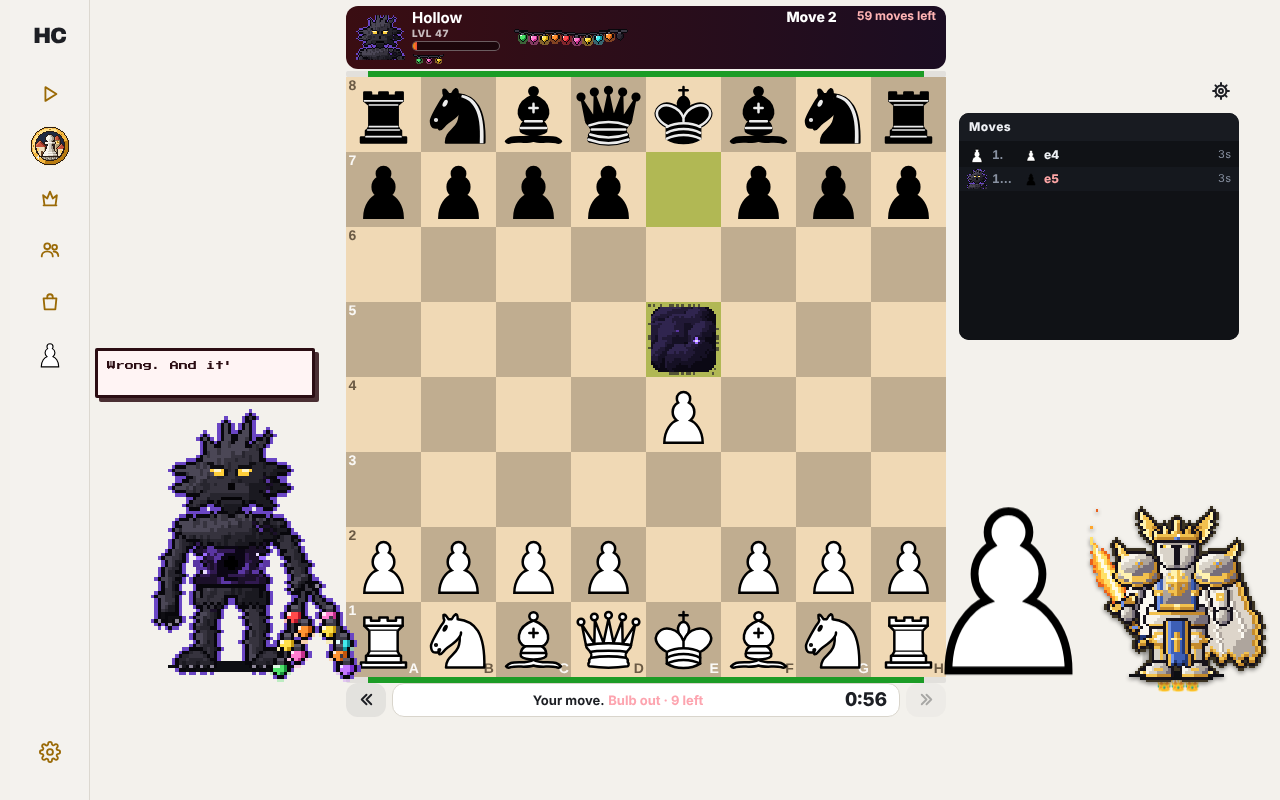
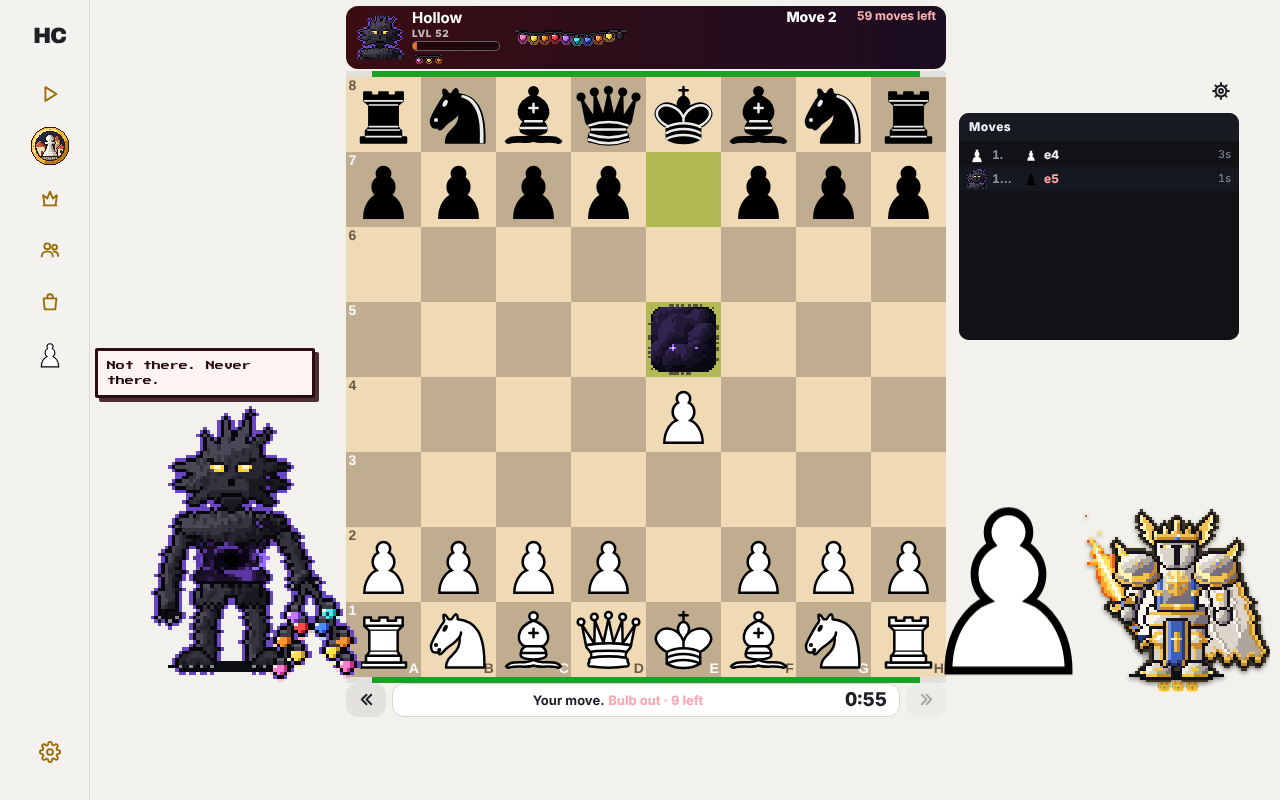
Hollow's taunts: check every one shows whole in his bubble (390 and 1440 wide); taunt stills taken once typed out
Claude-Session: https://claude.ai/code/session_01EKH5j59nMnRVnekEcuZbim

diff --git a/e2e/hollow.spec.ts b/e2e/hollow.spec.ts
@@ -64,6 +64,26 @@ const soundsHeard = (p: Page) => p.evaluate(() => ((window as any).__soundLog ??
 
 /** His line in his speech bubble now (its whole text), or null. */
 const bubbleLine = (p: Page) => p.evaluate(() => document.querySelector(".bc-bubble")?.getAttribute("aria-label") ?? null).catch(() => null);
+/**
+ * His bubble's line clipped, or "" when it shows whole: its text's scroll size within its box, and every box of the text inside
+ * the bubble (its rows never cut by the box's edge).
+ */
+const bubbleClipped = (p: Page) =>
+  p.evaluate(() => {
+    const el = document.querySelector<HTMLElement>(".bc-bubble");
+    if (!el) return "no bubble";
+    const label = el.getAttribute("aria-label") ?? "";
+    if (el.scrollWidth > el.clientWidth + 1 || el.scrollHeight > el.clientHeight + 1) return `${label}: scroll ${el.scrollWidth}x${el.scrollHeight} in ${el.clientWidth}x${el.clientHeight}`;
+    const box = el.getBoundingClientRect();
+    const rg = document.createRange();
+    rg.selectNodeContents(el);
+    const out = [...rg.getClientRects()].filter((q) => q.width > 0.5 && q.height > 0.5).find((q) => q.left < box.left - 0.5 || q.right > box.right + 0.5 || q.top < box.top - 0.5 || q.bottom > box.bottom + 0.5);
+    if (out) return `${label}: a row at ${Math.round(out.left)},${Math.round(out.top)}-${Math.round(out.right)},${Math.round(out.bottom)} past the box ${Math.round(box.left)},${Math.round(box.top)}-${Math.round(box.right)},${Math.round(box.bottom)}`;
+    if (box.left < 0 || box.top < 0 || box.right > innerWidth + 0.5 || box.bottom > innerHeight + 0.5) return `${label}: the box off screen`;
+    return "";
+  });
+/** Every taunt and the dark's move line (characters/hollow.ts HOLLOW_LINES.misplay; components/Hollow.tsx HOLLOW_BULB_LINES). */
+const TAUNT_LINES = ["Nice try.", "What, can't play in the dark?", "Something was there. Wasn't it?", "You reached for nothing.", "Feeling around, are we?", "The dark remembers. You don't.", "Not there. Never there.", "Wrong. And it's getting darker."];
 /** His taunts on a misplay (characters/hollow.ts HOLLOW_LINES.misplay). */
 const TAUNTS = /^(Nice try\.|What, can't play in the dark\?|Something was there\. Wasn't it\?|You reached for nothing\.|Feeling around, are we\?|The dark remembers\. You don't\.|Not there\. Never there\.|Wrong\. And it's getting darker\.)$/;
 /** HOLLOW_STILLS=<folder>: the stills for docs/hollow-bulbs/, written there. */
@@ -137,6 +157,9 @@ test("Hollow's dark, Boss alone: his first cover, a dark square selected, his te
   await expect(page.locator(".life-strip")).toHaveAttribute("data-lit", "9");
   await expect.poll(() => soundsHeard(page), { timeout: 5000 }).toContain("hollowFizz");
   await expect.poll(() => bubbleLine(page), { timeout: 15_000 }).toMatch(TAUNTS);
+  // (Typed out in full: the still shows the whole line.)
+  await expect.poll(() => page.evaluate(() => document.querySelector(".bc-bubble .speech-rest")?.textContent ?? ""), { timeout: 8000 }).toBe("");
+  await expect.poll(() => bubbleClipped(page), { timeout: 3000 }).toBe("");
   if (STILLS) await still(page, "bulbs-taunt");
   expect(await phase(page)).toBe("play");
   // A legal move out of the dark. (For the test, the dark falls on your knight: covers land on his pieces or yours at
@@ -185,6 +208,25 @@ test("Hollow's dark, Boss alone: his first cover, a dark square selected, his te
   expect(await page.evaluate(() => (window as any).match.moves.at(-1).move)).toBe(forced.move);
   expect(await soundsHeard(page)).toContain("hollowForced");
   expect(errors).toEqual([]);
+});
+
+test("Hollow's taunts and \"The dark moves for you.\" show whole in his bubble, typed out: nothing clipped (a phone 390 wide, a computer 1440)", async ({ page }) => {
+  test.setTimeout(3 * 60_000);
+  await page.setViewportSize(test.info().project.name === "phone" ? { width: 390, height: 844 } : { width: 1440, height: 900 });
+  await page.goto("/?debug&clock=60&boss=hollow&laststand=0");
+  await bossAloneFromHome(page);
+  await yourMove(page);
+  const bad: string[] = [];
+  for (const line of [...TAUNT_LINES, "The dark moves for you."]) {
+    await page.evaluate((t) => (globalThis as { sayBoss?: (t: string) => boolean }).sayBoss!(t), line);
+    await expect.poll(() => bubbleLine(page), { timeout: 5000 }).toBe(line);
+    await expect.poll(() => page.evaluate(() => document.querySelector(".bc-bubble .speech-rest")?.textContent ?? "x"), { timeout: 8000 }).toBe("");
+    // (Its box settles to the line, in the pixel font, a frame or two after it shows.)
+    await page.waitForTimeout(150);
+    const clipped = await bubbleClipped(page);
+    if (clipped) bad.push(clipped);
+  }
+  expect(bad).toEqual([]);
 });
 
 test("Hollow's bulbs (Boss alone): a 2 x 2 block of the dark drawn, then the 10th bulb out: total darkness, his line, the loss", async ({ page }) => {

diff --git a/docs/decisions/2026-11-05-hollow-bulbs.md b/docs/decisions/2026-11-05-hollow-bulbs.md
@@ -61,6 +61,10 @@ confirmed on Nov 5 that the bulbs are for solo only.
   "Something was there. Wasn't it?", "You reached for nothing.", "Feeling around, are we?", "The dark remembers. You don't.",
   "Not there. Never there.", "Wrong. And it's getting darker." Picked on the device (looks only), never the same twice
   running (`hollowTaunt`).
+- **Every line whole in his bubble** (the director's review): the first taunt still showed "Wrong. And it's" because it was taken
+  while the line typed out (its second row held, unseen, in its place). Every taunt and "The dark moves for you." fits the
+  bubble's rows as it is, at 390 and 1440 wide; an e2e check says each one, typed out, and fails if its text overflows its box.
+  The stills now wait for the last letter.
 - **Sounds:** the bulb's fizz and the forced move are new synthesized sounds (low, no chimes, under a move's loudness;
   `boss-sounds-finite.test.ts` passes); the blackout reuses his `blackout` thoom from his challenge intro.
 - **Test switches:** `?bulbs=N` (N bulbs out as the battle begins, never all), `?darkblock=2|3` (that block with his first

diff --git a/docs/hollow-bulbs/pr-body.md b/docs/hollow-bulbs/pr-body.md
@@ -52,7 +52,10 @@ Stills (`docs/hollow-bulbs/`): `bulbs-taunt-phone.png`, `bulbs-taunt-desktop.png
 - `packages/chess/test/boss-kit-lib.ts`: `KNOWN_STEPS` + `darkForcedDue`.
 - None guarded a rule in `docs/rules/eric.md`. Eric's three new rules are added there with their guards.
 
-New: `packages/chess/test/hollow-bulbs.test.ts`, `packages/app/test/hollow-bulbs.test.ts`, and in `e2e/hollow.spec.ts` "Hollow's
+New: `e2e/hollow.spec.ts`, "Hollow's taunts and \"The dark moves for you.\" show whole in his bubble, typed out: nothing clipped (a
+phone 390 wide, a computer 1440)" (each line said, typed out, its text's scroll size within its box and every row inside it;
+the director's review: the first taunt still had been taken mid-typing, "Wrong. And it's", its second row still to type; every
+line fits). `packages/chess/test/hollow-bulbs.test.ts`, `packages/app/test/hollow-bulbs.test.ts`, and in `e2e/hollow.spec.ts` "Hollow's
 bulbs (Boss alone): a 2 x 2 block of the dark drawn, then the 10th bulb out: total darkness, his line, the loss" (phone and
 computer).
 
